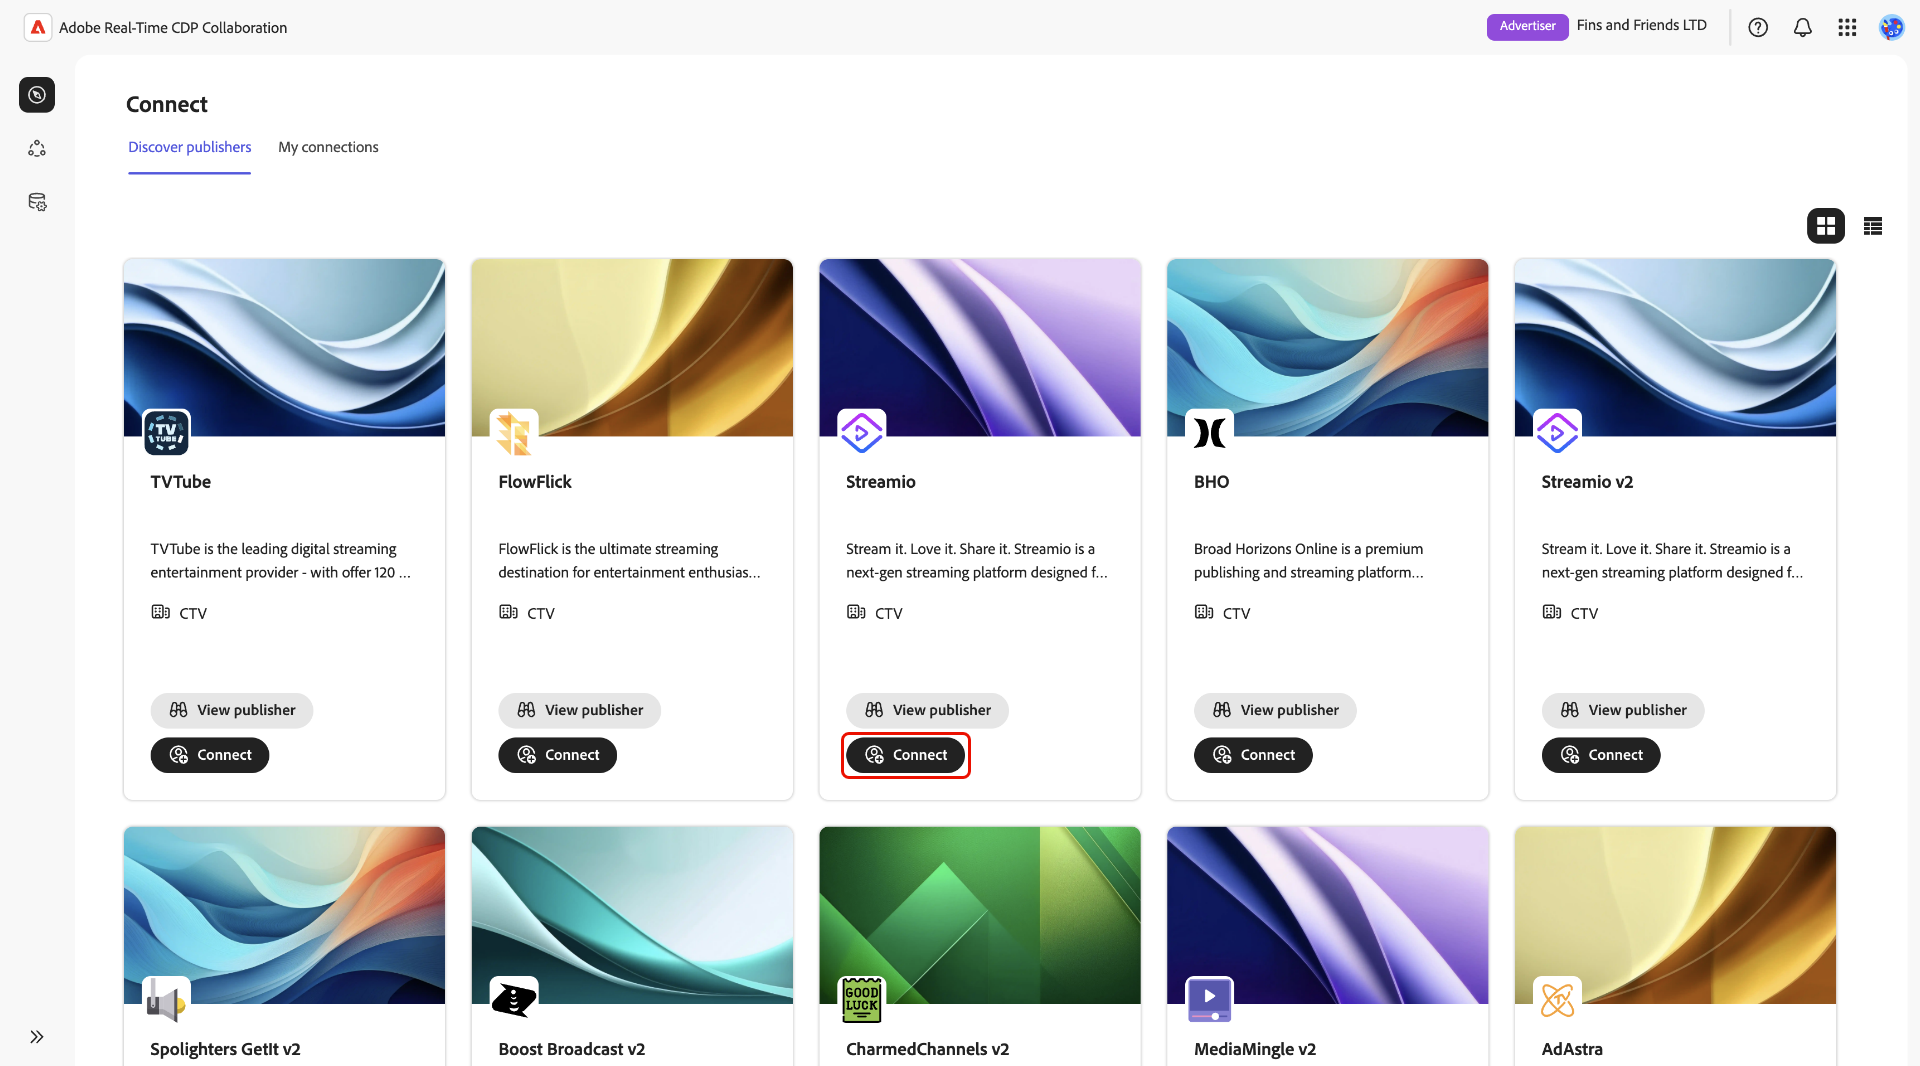
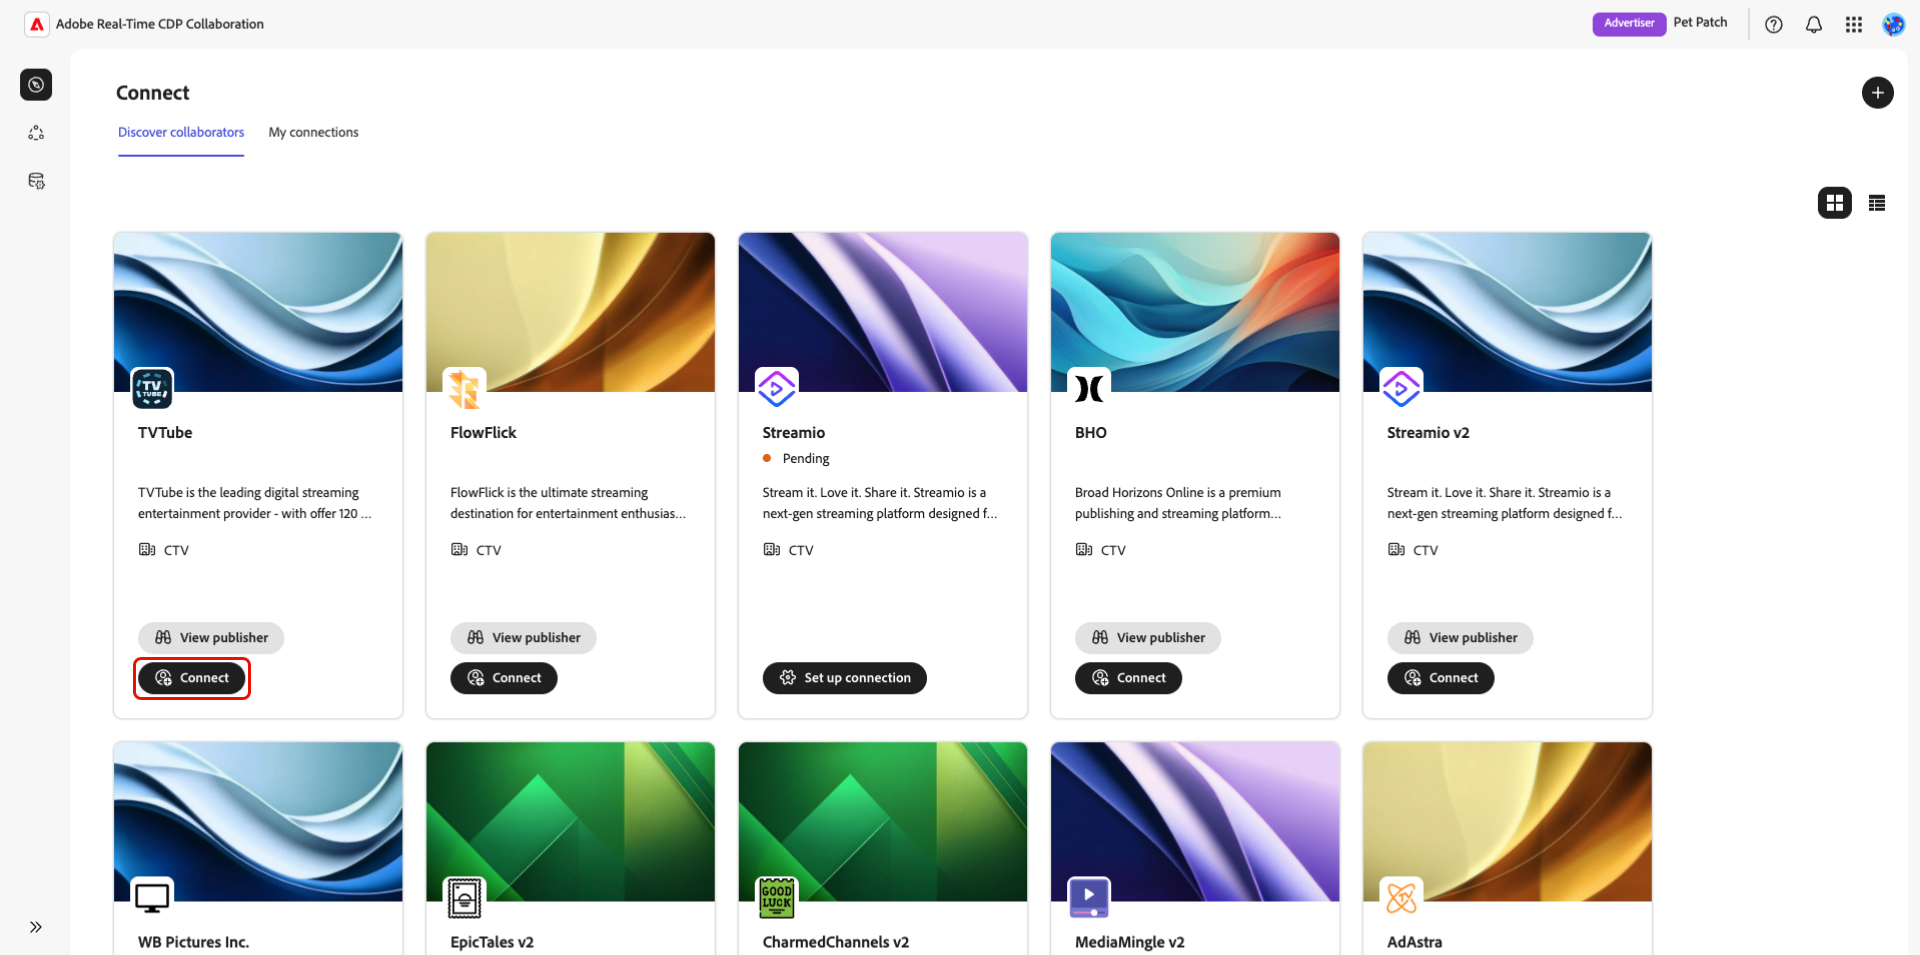
updated terminology

diff --git a/help/guide/connect/discover-collaborators.md b/help/guide/connect/discover-collaborators.md
@@ -1,23 +1,23 @@
 ---
-title: Discover publishers
-description: As an advertiser, learn how to discover potential publishers to collaborate with using Adobe Real-Time CDP Collaboration
+title: Discover collaborators
+description: As an advertiser, learn how to discover potential collaborators to work with using Adobe Real-Time CDP Collaboration
 audience: admin, advertiser
 badgelimitedavailability: label="Limited Availability" type="Informative" url="https://helpx.adobe.com/legal/product-descriptions/real-time-customer-data-platform-collaboration.html newtab=true"
 exl-id: f38ed4ce-e4d2-46d3-b8fa-aa8d14f926e1
 ---
-# Discover publishers
+# Discover collaborators
 
 {{limited-availability-release-note}}
 
-Discover and connect with potential publishers in Adobe Real-Time CDP Collaboration. This guide provides insights on how to identify ideal collaborators and use their audiences to enhance your marketing campaigns.
+Discover and connect with potential collaborators in Adobe Real-Time CDP Collaboration. This guide provides insights on how to identify ideal collaborators and use their audiences to enhance your marketing campaigns.
 
 >[!NOTE]
 >
->Currently, the **[!UICONTROL Discover publishers]** workspace is only available to advertisers.
+>Currently, the **[!UICONTROL Discover collaborators]** workspace is only available to advertisers. Publishers cannot discover advertisers through the platform. Instead, publishers can share their connect code with advertisers to facilitate connections. For more information, see the [private connection invite](./establishing-connections.md#private-connection-invite) section.
 
-To discover publishers, go to the **[!UICONTROL Connect]** > **[!UICONTROL Discover publishers]** tab.
+To discover collaborators, go to the **[!UICONTROL Connect]** > **[!UICONTROL Discover collaborators]** tab.
 
-![The Discover publishers dashboard in the Connect workspace.](/help/assets/connect/discover-publishers/discover-publishers-overview.png){zoomable="yes"}
+![The [!UICONTROL Discover collaborators] dashboard in the [!UICONTROL Connect] workspace.](/help/assets/connect/discover-collaborators/discover-collaborators-overview.png){zoomable="yes"}
 
 Select **[!UICONTROL View publisher]** to learn more about the publisher. You can also view and inspect any audiences that the publisher [set as public](/help/guide/setup/onboard-audiences.md#metadata-visibility).
 

diff --git a/help/guide/connect/establishing-connections.md b/help/guide/connect/establishing-connections.md
@@ -58,7 +58,7 @@ In the advertiser-to-publisher pattern, an advertiser discovers a publisher they
 
 To establish a connection between an advertiser and a publisher, the following steps are involved:
 
-1. [Discover publishers](#discover-publishers): The advertiser identifies potential publishers to collaborate with.
+1. [Discover publishers](#discover-collaborators): The advertiser identifies potential collaborators to work with.
 1. [Send invite](#send-invite): The advertiser sends a connection invite to the selected publisher.
 1. [Accept invite](#accept-invite): The publisher reviews and accepts the invite.
 1. [Configure connection settings](#configure-connection-settings): The advertiser configures the connection settings and sends them to the publisher for review.
@@ -102,7 +102,7 @@ Once the connection settings are accepted, the connection is established, and co
 
 The **[!UICONTROL Connect]** workspace is where you can manage your connections with collaborators, send connection invites, and where advertisers can browse the publisher directory. The workspace is divided into two main tabs:
 
-### Discover publishers {#discover-publishers}
+### Discover collaborators {#discover-collaborators}
 
 >[!IMPORTANT]
 >
@@ -110,7 +110,7 @@ The **[!UICONTROL Connect]** workspace is where you can manage your connections 
 
 To discover publishers, navigate to the **[!UICONTROL Discover collaborators]** workspace in the **[!UICONTROL Connect]** tab. Here, you can browse through the list of available publishers using the pagination controls at the bottom of the workspace. To learn more about the **[!UICONTROL Discover collaborators]** workspace, see the [discover collaborators](/help/guide/connect/discover-collaborators.md) guide.
 
-![The Discover collaborators workspace displaying a list of available publishers.](/help/assets/connect/establish-connection/discover-publishers.png){zoomable="yes"}
+![The Discover collaborators workspace displaying a list of available publishers.](/help/assets/connect/establish-connection/discover-collaborators.png){zoomable="yes"}
 
 ### Send invite {#send-invite}
 
